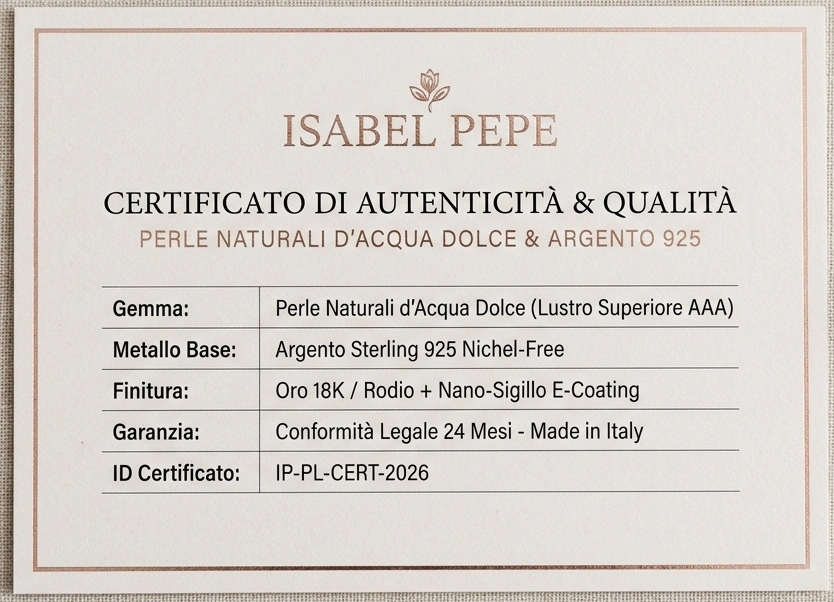
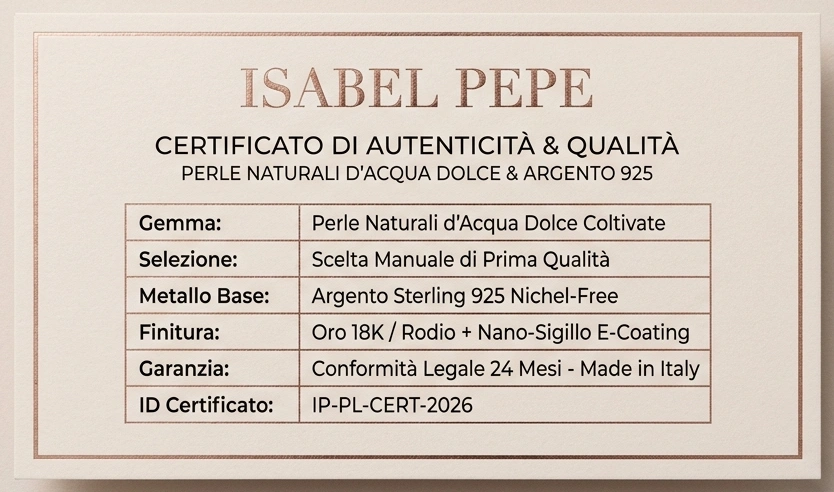
fix(compliance): update pearl certificate card v3 with 100% authentic gemstone description

Changed region(s): [[0.1247, 0.2744, 0.9041, 0.8841], [0.0, 0.0, 1.0, 1.0], [0.2806, 0.122, 0.717, 0.2439]]

diff --git a/components/ProductTrustBadges.tsx b/components/ProductTrustBadges.tsx
@@ -123,7 +123,7 @@ export default function ProductTrustBadges({ product }: ProductTrustBadgesProps)
                 <span>
                   <strong className="text-gray-900 font-medium">Autenticità Garantita: </strong>
                   {isPearl 
-                    ? "Perle d'acqua dolce naturali selezionate a mano per lucentezza e purezza superficiale (Lustro AAA)." 
+                    ? "Perle d'acqua dolce naturali coltivate, selezionate a mano per lucentezza satinata e fascino organico." 
                     : "Pietre VVS1 D-Color certificate con massima rifrazione della luce."
                   }
                 </span>
